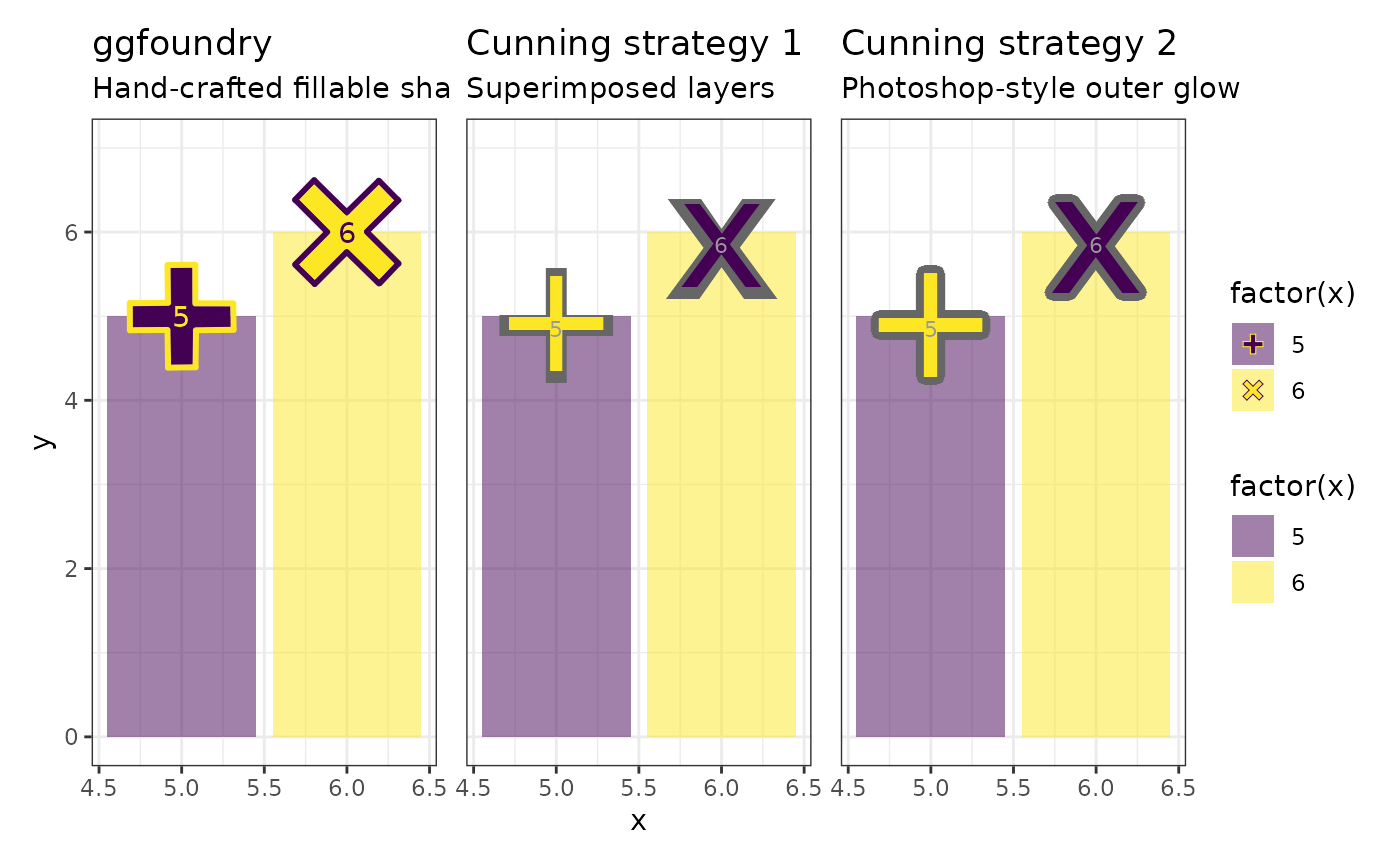
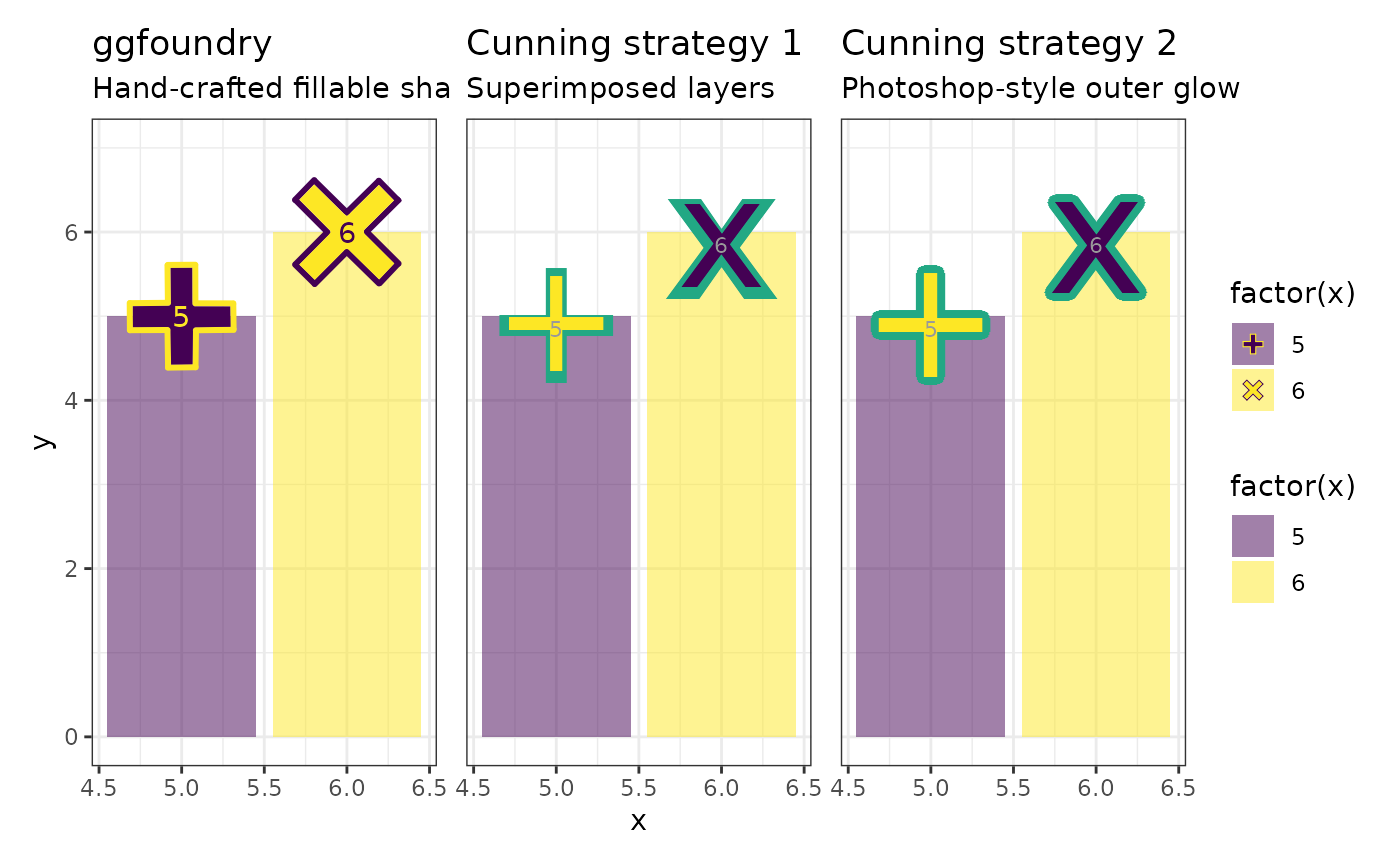
Deploying to gh-pages from @ cgoo4/ggfoundry@c1d59408c8a663b064cf78f344b284ba0e73adc6 🚀

diff --git a/articles/ggfoundry.html b/articles/ggfoundry.html
@@ -263,7 +263,8 @@ as rendering the full image as-is is often the desired outcome.</p>
 <h2 id="contrast-with-cunning-strategies">Contrast with cunning strategies<a class="anchor" aria-label="anchor" href="#contrast-with-cunning-strategies"></a>
 </h2>
 <p>Where existing symbols are not fillable, there are possible
-strategies to achieve a similar effect:</p>
+strategies to achieve a similar effect using only colour and
+compromising a little on the legend:</p>
 <ul>
 <li>Have one larger layer with a coloured symbol. Then superimpose a
 smaller second layer with a differently-coloured symbol.</li>
@@ -298,7 +299,7 @@ differently-coloured outer-glow.</li>
 <span>    <span class="op">)</span></span>
 <span></span>
 <span><span class="va">p2</span> <span class="op">&lt;-</span> <span class="va">p</span> <span class="op">+</span></span>
-<span>  <span class="fu"><a href="https://ggplot2.tidyverse.org/reference/geom_text.html" class="external-link">geom_text</a></span><span class="op">(</span><span class="fu"><a href="https://ggplot2.tidyverse.org/reference/aes.html" class="external-link">aes</a></span><span class="op">(</span>label <span class="op">=</span> <span class="va">label</span><span class="op">)</span>, colour <span class="op">=</span> <span class="st">"grey40"</span>, fontface <span class="op">=</span> <span class="st">"bold"</span>,</span>
+<span>  <span class="fu"><a href="https://ggplot2.tidyverse.org/reference/geom_text.html" class="external-link">geom_text</a></span><span class="op">(</span><span class="fu"><a href="https://ggplot2.tidyverse.org/reference/aes.html" class="external-link">aes</a></span><span class="op">(</span>label <span class="op">=</span> <span class="va">label</span><span class="op">)</span>, colour <span class="op">=</span> <span class="st">"#22A884"</span>, fontface <span class="op">=</span> <span class="st">"bold"</span>,</span>
 <span>            size <span class="op">=</span> <span class="fl">24</span>, show.legend <span class="op">=</span> <span class="cn">FALSE</span><span class="op">)</span> <span class="op">+</span></span>
 <span>  <span class="fu"><a href="https://ggplot2.tidyverse.org/reference/geom_text.html" class="external-link">geom_text</a></span><span class="op">(</span><span class="fu"><a href="https://ggplot2.tidyverse.org/reference/aes.html" class="external-link">aes</a></span><span class="op">(</span>label <span class="op">=</span> <span class="va">label</span>, colour <span class="op">=</span> <span class="fu"><a href="https://rdrr.io/r/base/factor.html" class="external-link">factor</a></span><span class="op">(</span><span class="va">x</span><span class="op">)</span><span class="op">)</span>, </span>
 <span>            size <span class="op">=</span> <span class="fl">20</span>, show.legend <span class="op">=</span> <span class="cn">FALSE</span><span class="op">)</span> <span class="op">+</span></span>
@@ -312,7 +313,7 @@ differently-coloured outer-glow.</li>
 <span><span class="va">p3</span> <span class="op">&lt;-</span> <span class="va">p</span> <span class="op">+</span></span>
 <span>  <span class="fu"><a href="https://ggfx.data-imaginist.com/reference/with_outer_glow.html" class="external-link">with_outer_glow</a></span><span class="op">(</span><span class="fu"><a href="https://ggplot2.tidyverse.org/reference/geom_text.html" class="external-link">geom_text</a></span><span class="op">(</span><span class="fu"><a href="https://ggplot2.tidyverse.org/reference/aes.html" class="external-link">aes</a></span><span class="op">(</span>label <span class="op">=</span> <span class="va">label</span>, colour <span class="op">=</span> <span class="fu"><a href="https://rdrr.io/r/base/factor.html" class="external-link">factor</a></span><span class="op">(</span><span class="va">x</span><span class="op">)</span><span class="op">)</span>,</span>
 <span>    size <span class="op">=</span> <span class="fl">22</span>, show.legend <span class="op">=</span> <span class="cn">FALSE</span>, </span>
-<span>  <span class="op">)</span>, sigma <span class="op">=</span> <span class="fl">0</span>, expand <span class="op">=</span> <span class="fl">8</span>, colour <span class="op">=</span> <span class="st">"grey40"</span><span class="op">)</span> <span class="op">+</span></span>
+<span>  <span class="op">)</span>, sigma <span class="op">=</span> <span class="fl">0</span>, expand <span class="op">=</span> <span class="fl">8</span>, colour <span class="op">=</span> <span class="st">"#22A884"</span><span class="op">)</span> <span class="op">+</span></span>
 <span>  <span class="fu"><a href="https://ggplot2.tidyverse.org/reference/geom_text.html" class="external-link">geom_text</a></span><span class="op">(</span><span class="fu"><a href="https://ggplot2.tidyverse.org/reference/aes.html" class="external-link">aes</a></span><span class="op">(</span>label <span class="op">=</span> <span class="va">x</span><span class="op">)</span>, colour <span class="op">=</span> <span class="st">"grey60"</span>, nudge_y <span class="op">=</span> <span class="op">-</span><span class="fl">0.15</span>,</span>
 <span>            size <span class="op">=</span> <span class="fl">3</span>, show.legend <span class="op">=</span> <span class="cn">FALSE</span><span class="op">)</span> <span class="op">+</span></span>
 <span>  <span class="fu"><a href="https://ggplot2.tidyverse.org/reference/labs.html" class="external-link">labs</a></span><span class="op">(</span></span>
